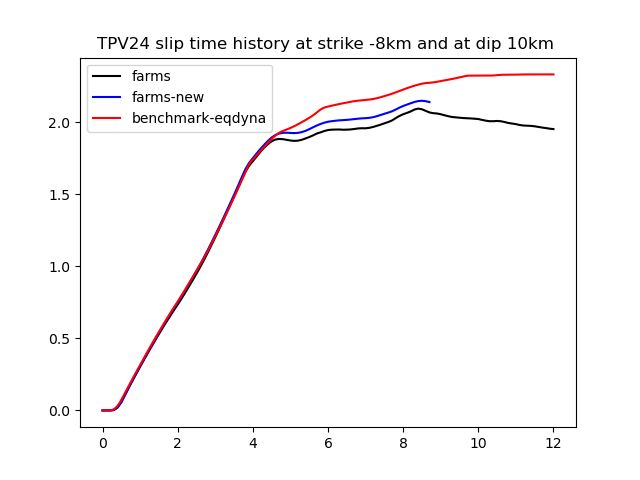
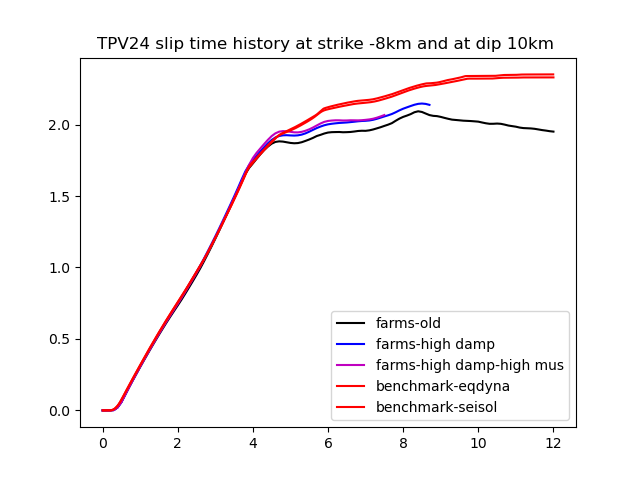
fix high mus not effective, check effective normal stress tpv24 cluster

diff --git a/postprocess/tpv24/datacompare.py b/postprocess/tpv24/datacompare.py
@@ -4,6 +4,9 @@ import matplotlib.pyplot as plt
 #read benchmark data
 strikem8dip10 = np.loadtxt("./benchmark_data/eqdynastrikem8dip10.txt")
 
+#
+strikem8dip10_2 = np.loadtxt("./benchmark_data/seisolstrikem8dip10.txt")
+
 strikem8dip5 = np.loadtxt("./benchmark_data/eqdynastrikem8dip5.txt")
 
 strikem8dip0 = np.loadtxt("./benchmark_data/eqdynastrikem8dip0.txt")
@@ -17,6 +20,10 @@ slip_strikem8dip10 = np.loadtxt("./farms_data/slip_strikem8_dip10.txt",skiprows=
 #
 sliprate_strikem8dip10_new = np.loadtxt("./farms_data/jun11/sliprate.txt",skiprows=1)
 slip_strikem8dip10_new = np.loadtxt("./farms_data/jun11/slip.txt",skiprows=1)
+
+#
+sliprate_strikem8dip10_new2 = np.loadtxt("./farms_data/jun13/sliprate.txt",skiprows=1)
+slip_strikem8dip10_new2 = np.loadtxt("./farms_data/jun13/slip.txt",skiprows=1)
 
 sliprate_strikem8dip5 = np.loadtxt("./farms_data/sliprate_strikem8_dip5.txt",skiprows=1)
 slip_strikem8dip5 = np.loadtxt("./farms_data/slip_strikem8_dip5.txt",skiprows=1)
@@ -41,9 +48,11 @@ if plot_strikem8dip10:
 
     ## slip
     plt.figure()
-    plt.plot(time,slip_strikem8dip10,'k-',label="farms")
-    plt.plot(time[:88],slip_strikem8dip10_new,'b-',label="farms-new")
+    plt.plot(time,slip_strikem8dip10,'k-',label="farms-old")
+    plt.plot(time[:88],slip_strikem8dip10_new,'b-',label="farms-high damp")
+    plt.plot(time[:76],slip_strikem8dip10_new2,'m-',label="farms-high damp-high mus")
     plt.plot(strikem8dip10[:,0],strikem8dip10[:,1],'r-',label="benchmark-eqdyna")
+    plt.plot(strikem8dip10_2[:,0],2*strikem8dip10_2[:,1],'r-',label="benchmark-seisol")
     plt.title("TPV24 slip time history at strike -8km and at dip 10km ")
     plt.legend()
     plt.savefig("./outputs/strikem8dip10/slip.png")
@@ -51,9 +60,11 @@ if plot_strikem8dip10:
 
     ## slip rate
     plt.figure()
-    plt.plot(time,sliprate_strikem8dip10,'k-',label="farms")
-    plt.plot(time[:88],sliprate_strikem8dip10_new,'b-',label="farms-new")
+    plt.plot(time,sliprate_strikem8dip10,'k-',label="farms-old")
+    plt.plot(time[:88],sliprate_strikem8dip10_new,'b-',label="farms-high damp")
+    plt.plot(time[:76],sliprate_strikem8dip10_new2,'m-',label="farms-high damp-high mus")
     plt.plot(strikem8dip10[:,0],strikem8dip10[:,2],'r-',label="benchmark-eqdyna")
+    plt.plot(strikem8dip10_2[:,0],strikem8dip10_2[:,2],'r-',label="benchmark-seisol")
     plt.title("TPV24 slip rate time history at strike -8km and at dip 10km ")
     plt.legend()
     plt.savefig("./outputs/strikem8dip10/sliprate.png")

diff --git a/src/materials/slipweakening/SlipWeakeningMultifaults3D.C b/src/materials/slipweakening/SlipWeakeningMultifaults3D.C
@@ -183,12 +183,12 @@ SlipWeakeningMultifaults3D::computeInterfaceTractionAndDerivatives()
     Real T3 =   (1/_dt)*M*displacement_jump_rate(2)/(2*area*area) + (R_plus_local_z - R_minus_local_z)/(2*area*area) + T3_o;
     Real T2 =  -(1/_dt)*M*(displacement_jump_rate(0)+(1/_dt)*displacement_jump(0))/(2*area*area) + ( (R_minus_local_y - R_plus_local_y) / ( 2*area*area ) ) - T2_o ;
 
-    //Compute fault traction
-   if (T2<0)
-   {
-   }else{
-     T2 = 0;
-   }
+  //   //Compute fault traction //effective normal stress is zero, see below
+  //  if (T2<0)
+  //  {
+  //  }else{
+  //    T2 = 0;
+  //  }
 
   //parameter f1
   //Note: The distance that the node has slipped is path-integrated. For example, if the node slips 0.4 m in one
@@ -238,7 +238,14 @@ SlipWeakeningMultifaults3D::computeInterfaceTractionAndDerivatives()
     f2 = 1;
   }
 
-  Real mu = mu_s + ( mu_d - mu_s ) * std::max(f1,f2);
+  //if mu_s > 0.18, must be boundary location, set high mus without degradation
+  Real mu = 0.0;
+  if ( mu_s > 10 ){ //must be boundary elements, set high mus values
+    mu = mu_s * 1;
+  }
+  else{
+    mu = mu_s + ( mu_d - mu_s ) * std::max(f1,f2);
+  }
 
   //Pf
   Real z_coord = _q_point[_qp](2);
@@ -247,8 +254,9 @@ SlipWeakeningMultifaults3D::computeInterfaceTractionAndDerivatives()
   Real Pf = fluid_density * gravity * abs(z_coord);
 
   //tau_f
-  //T2: total normal stress acting on the fault, taken to be positive in compression: abs(T2)
-  Real effective_stress = abs(T2) - Pf;
+  //T2: total normal stress acting on the fault, taken to be "positive" in compression: -T2
+  //treat tension on the fault the same as if the effective normal stress equals zero.
+  Real effective_stress = (-T2) - Pf;
   tau_f = _Co[_qp] + mu * std::max(effective_stress,0.0);
 
   //Compute fault traction
